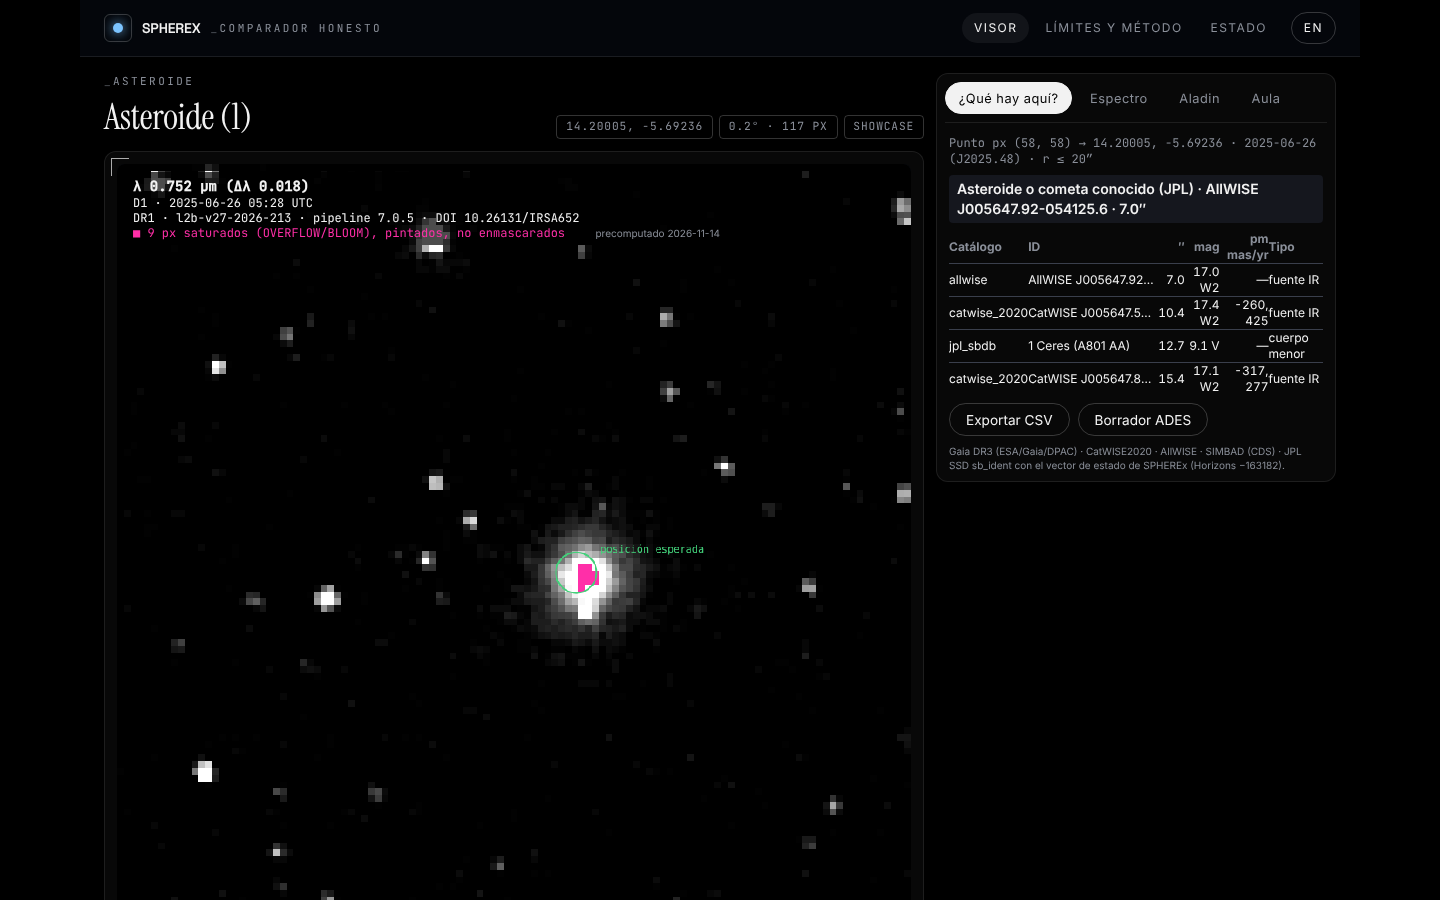
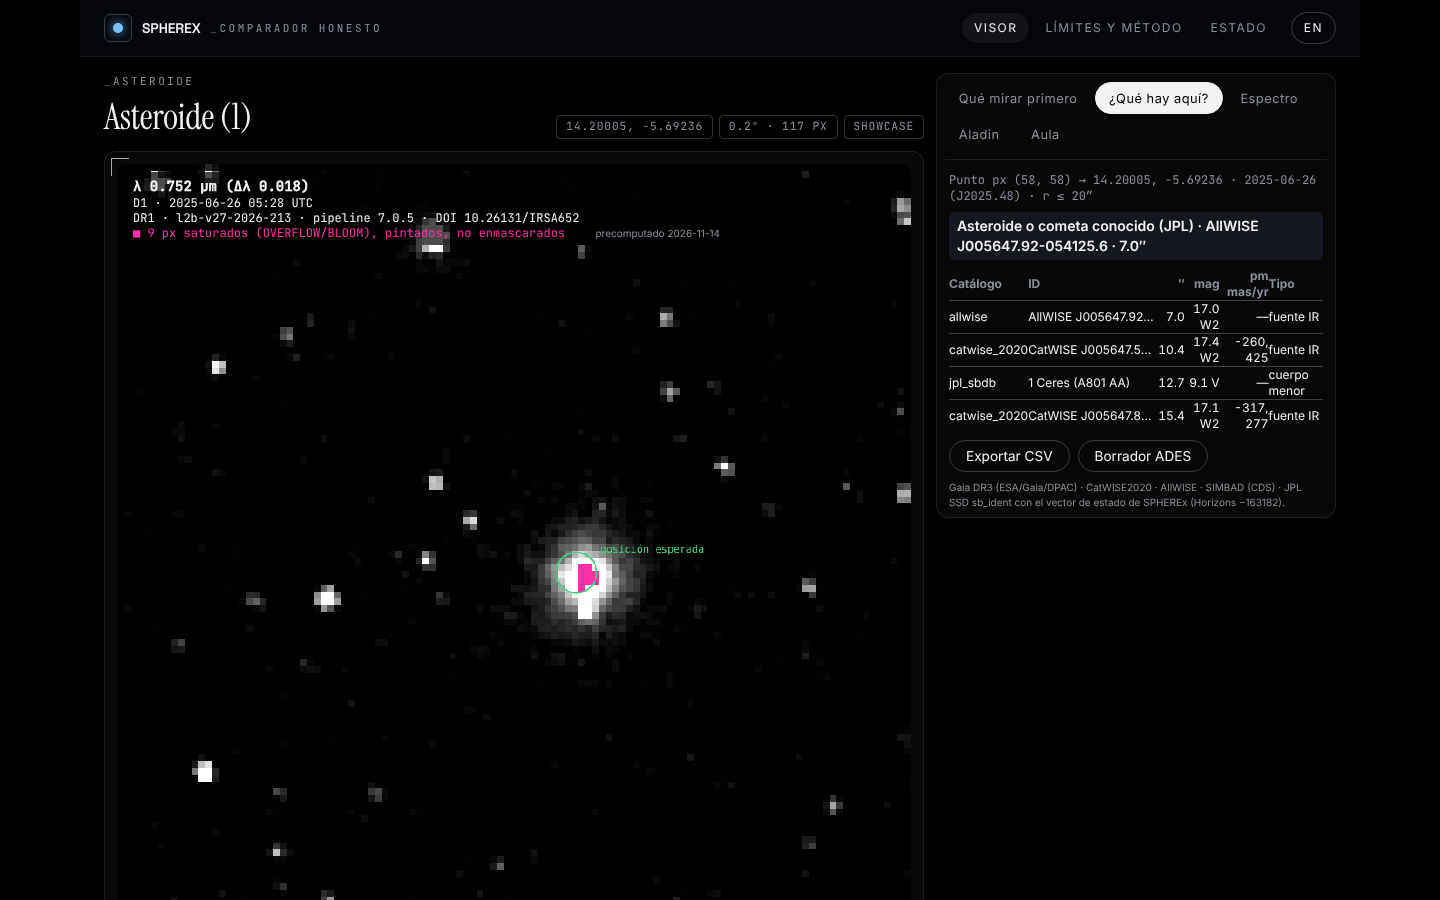
chore(release): cambios a λ igual en los 12 campos, capturas y GIF finales, decisiones y README
Claude-Session: https://claude.ai/code/session_013RALEyCowhFnNQ9N4hbKrJ

Changed region(s): [[0.6562, 0.0933, 0.9062, 0.56]]

diff --git a/docs/DECISIONES.md b/docs/DECISIONES.md
@@ -154,3 +154,24 @@ Registro de decisiones tomadas durante el evento. Una línea por decisión, con 
   (0 errores de catálogo). Showcase total 33 MB.
 - **2026-11-14 14:35 UTC** — Lighthouse landing: accesibilidad 100, buenas prácticas 96, rendimiento 73 en servidor sin
   compresión. Títulos de página en serif; GIF y capturas de `docs/demo` regrabados.
+
+## Mejoras frente a la competencia (noche del 14 nov)
+
+- **2026-11-14 16:10 UTC** — (1) Control con estrellas de campo en Limits: el mismo ajuste de centroides por visita aplicado a
+  3–10 estrellas Gaia (G < 16) del campo tras quitar su pm de catálogo da |pm| residual mediano de 0.03–0.11 px/año frente a
+  0.7–1.7 px/año de los objetos: el piso sistemático queda 10× por debajo de la señal; en Barnard confirma que el sesgo es
+  del núcleo saturado, no de la astrometría.
+- **2026-11-14 16:15 UTC** — (2) Botón «misma λ» en A−B: elige en otra visita la exposición del canal más cercano. (6) Modo traza:
+  máximo píxel a píxel de visitas + escalera actual con su propio recorte por percentiles; Ceres muestra sus dos posiciones.
+- **2026-11-14 16:25 UTC** — (3) «Qué mirar primero» (`scripts/find_changes.py`): cada exposición menos la mediana de las del
+  mismo canal en otras visitas (|Δ| = 0 → veredicto ok), S/N ≥ 6, ≥ 2 px, lejos de saturación, cruce con los catálogos y
+  marca de «una sola exposición: posible artefacto». 24 por campo; los asteroides dan 0 (una visita por canal). R Dra da 17
+  «candidatos» que son residuos alrededor del núcleo saturado: la etiqueta de artefacto y la Field Guide lo explican.
+  Cuando el TAP de IRSA cayó (502, timeouts > 5 min en el polo eclíptico) el script pasó a reconstruir cada campo desde
+  `index.json` con los cutouts en cache (`build_visits(refs=…)`), sin red.
+- **2026-11-14 16:30 UTC** — (4) Completitud por velocidad con movers sintéticos a ciegas (caja ±3 px, 5 visitas, 1.02 años):
+  a 400 µJy limita la S/N del centroide (87 % en reposo → 25–35 % a ≥ 1 px/año); a 1 200 µJy se mantiene en 70–80 % hasta
+  3 px/año y cae a 10 % a 4 px/año al salir de la caja. (5) Variable roja del campo profundo: Gaia DR3 2257667121267351296
+  (G 14.1, K 10.4, BP−RP 2.7) elegida con una consulta Gaia×2MASS a 1.5° del polo; 362 visitas en el showcase, sin saturar,
+  45–55 mJy; curva de luz a λ fija (±1 canal) en el panel de espectro para cualquier campo.
+- **2026-11-14 16:35 UTC** — Showcase final: 12 campos, 36.4 MB (≤ 60 MB); suite verde; capturas y GIF regrabados.

diff --git a/README.md b/README.md
@@ -40,10 +40,13 @@ una variable roja no saturada del campo profundo (Gaia DR3 2257667121267351296, 
 
 ## Resultados que respaldan la tesis (datos reales, 14 nov 2026)
 
-- WISE 0855 en D5: 6 visitas, 430–510 µJy por coadd (W2 = 13.9 ⇒ ≈ 430 µJy), movimiento 1.2–1.7 ± 0.3 px/año vs 1.33 esperado.
+- WISE 0855 en D5: 6 visitas, 430–510 µJy por coadd (W2 = 13.9 ⇒ ≈ 430 µJy), movimiento 1.2–1.7 ± 0.3 px/año vs 1.33 esperado;
+  estrellas de campo de control: 0.03–0.11 px/año.
 - ε Indi Ba/Bb en D2: 14 visitas sin saturación, 0.72 ± 0.04 px/año vs 0.76; su espectro muestra la banda de agua a 1.39 µm.
 - Residuo de la resta (PoC 9 nov): fondo 0.80–0.87 del ruido; estrellas 4 % + 1.4 %/canal; 25 % a 16 canales.
-- Completitud 50 % por inyección: AB 17.7 (WISE 0855 D5, n = 8), 18.5 (ε Indi B D2 y Barnard D3).
+- Completitud 50 % por inyección: AB 17.7 (WISE 0855 D5, n = 8), 18.5 (ε Indi B D2 y Barnard D3). Por velocidad (a ciegas):
+  70–80 % hasta 3 px/año a 1 200 µJy; cae a 4 px/año al salir de la caja de búsqueda.
+- Variable roja del campo profundo: 362 visitas, 45–55 mJy sin saturar, curva de luz a λ fija.
 - Paralaje: 0.07–0.09 px, no medible. Planeta Nueve: 3–5 mag por debajo del límite de una visita.
 
 ## Estructura
